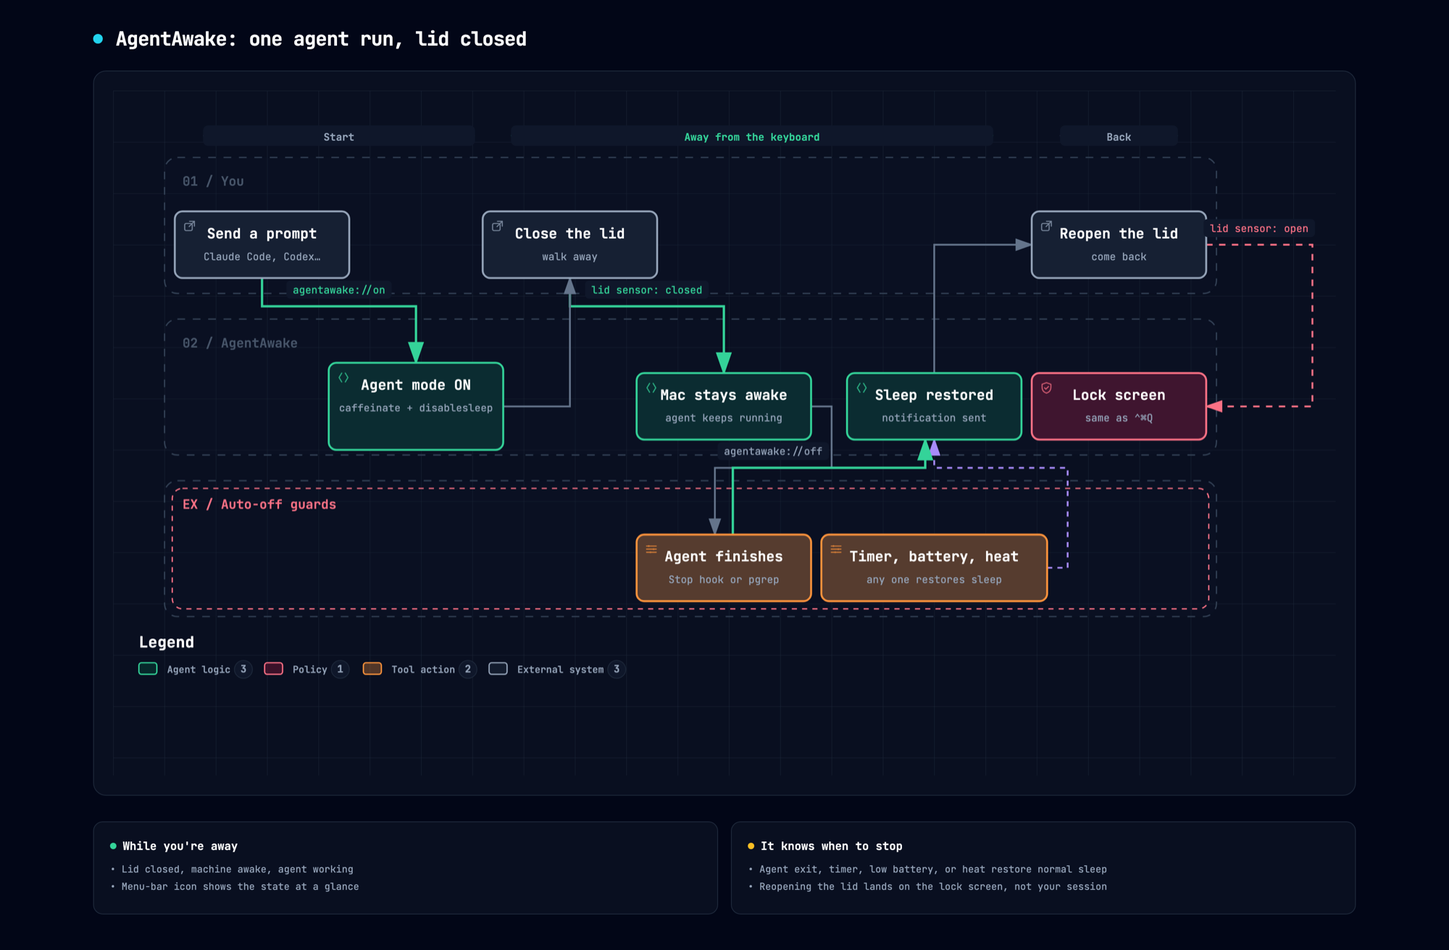
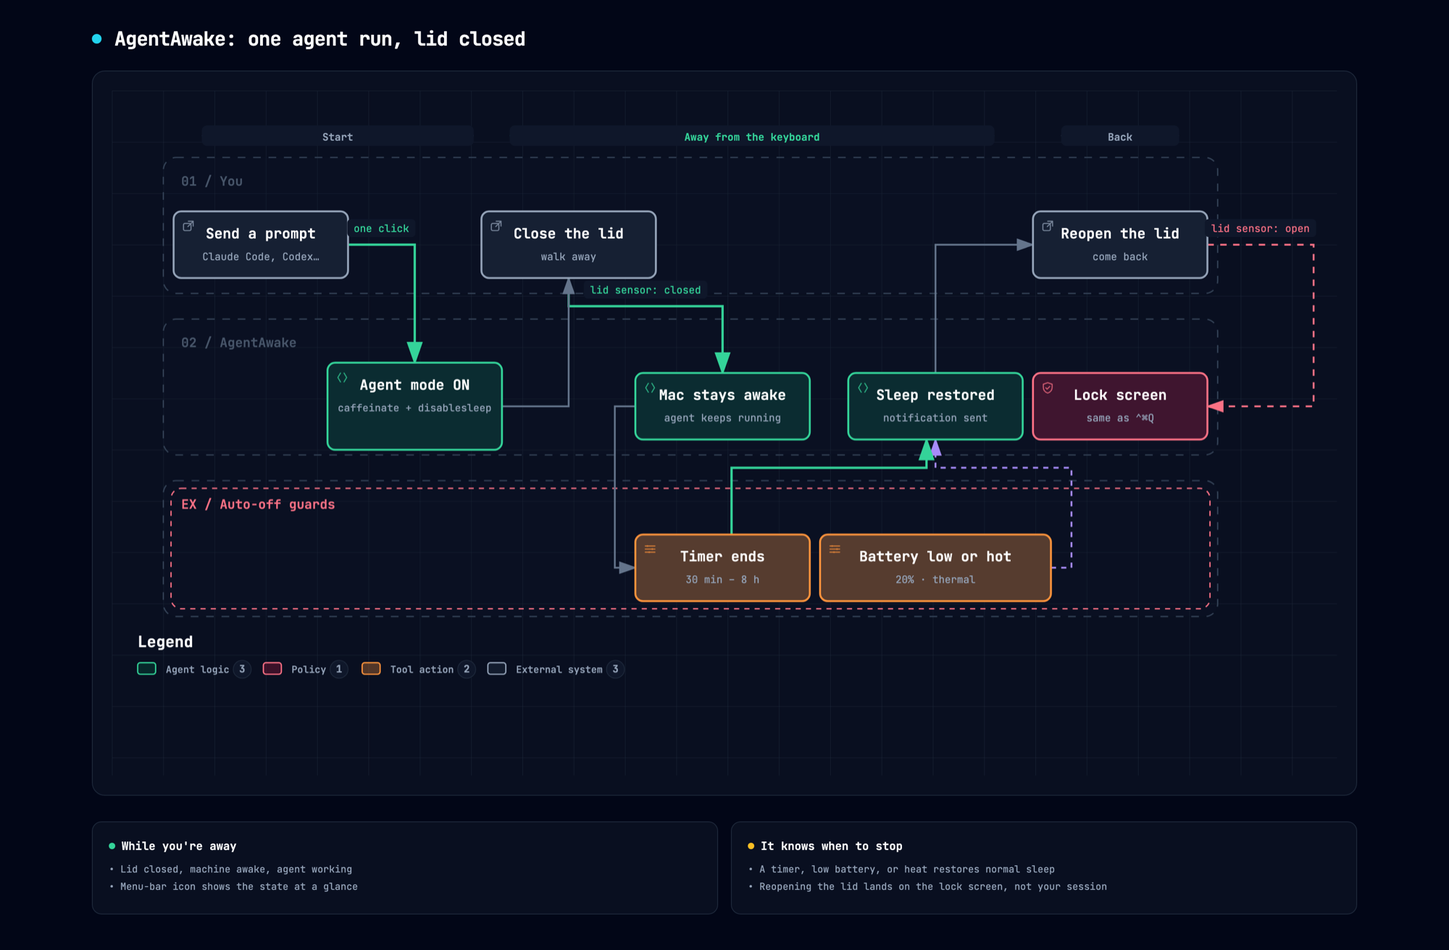
Diagram and README: timer, battery, and heat are the off switches; hooks optional

diff --git a/docs/agentawake.html b/docs/agentawake.html
@@ -5004,7 +5004,7 @@
     <!-- Main Diagram -->
     <div class="diagram-container" data-detail-level="read"
          data-preset-badge-editorial-plate="ARCHIFY / PLATE 04">
-      <svg viewBox="0 0 953 534" role="img" lang="en" aria-labelledby="archify-diagram-title archify-diagram-description" data-preset="classic" data-quality-profile="showcase">
+      <svg viewBox="0 0 955 534" role="img" lang="en" aria-labelledby="archify-diagram-title archify-diagram-description" data-preset="classic" data-quality-profile="showcase">
         <title id="archify-diagram-title">AgentAwake: one agent run, lid closed</title>
         <desc id="archify-diagram-description">A workflow diagram generated by Archify.</desc>
         <!-- Definitions -->
@@ -5030,39 +5030,39 @@
         <rect width="100%" height="100%" fill="url(#grid)" />
 
         <!-- Swimlanes -->
-        <rect data-graph-role="structural-frame" data-composition-frame-kind="lane" data-composition-frame-id="lane-0" x="40" y="52" width="820" height="106" rx="10" class="c-lane" stroke-width="1"/>
+        <rect data-graph-role="structural-frame" data-composition-frame-kind="lane" data-composition-frame-id="lane-0" x="40" y="52" width="822" height="106" rx="10" class="c-lane" stroke-width="1"/>
         <text x="54" y="74" class="t-dim" font-size="10" font-weight="600">01 / You</text>
 
-        <rect data-graph-role="structural-frame" data-composition-frame-kind="lane" data-composition-frame-id="lane-1" x="40" y="178" width="820" height="106" rx="10" class="c-lane" stroke-width="1"/>
+        <rect data-graph-role="structural-frame" data-composition-frame-kind="lane" data-composition-frame-id="lane-1" x="40" y="178" width="822" height="106" rx="10" class="c-lane" stroke-width="1"/>
         <text x="54" y="200" class="t-dim" font-size="10" font-weight="600">02 / AgentAwake</text>
 
-        <rect data-graph-role="structural-frame" data-composition-frame-kind="lane" data-composition-frame-id="lane-2" x="40" y="304" width="820" height="106" rx="10" class="c-lane" stroke-width="1"/>
-        <rect data-graph-role="structural-frame" data-composition-frame-kind="exception-lane" data-composition-frame-id="lane-2-exception" x="46" y="310" width="808" height="94" rx="8" class="c-security-group" stroke-width="1"/>
+        <rect data-graph-role="structural-frame" data-composition-frame-kind="lane" data-composition-frame-id="lane-2" x="40" y="304" width="822" height="106" rx="10" class="c-lane" stroke-width="1"/>
+        <rect data-graph-role="structural-frame" data-composition-frame-kind="exception-lane" data-composition-frame-id="lane-2-exception" x="46" y="310" width="810" height="94" rx="8" class="c-security-group" stroke-width="1"/>
         <text x="54" y="326" class="t-security" font-size="10" font-weight="600">EX / Auto-off guards</text>
 
         <!-- Phase headers -->
         <line x1="70" y1="35" x2="282" y2="35" class="a-default" stroke-width="1.1"/>
         <rect x="70" y="27" width="212" height="16" rx="4" class="c-mask"/>
         <text x="176" y="39" class="t-muted" font-size="8" font-weight="600" text-anchor="middle">Start</text>
-        <line x1="310" y1="35" x2="686" y2="35" class="a-emphasis" stroke-width="1.1"/>
-        <rect x="310" y="27" width="376" height="16" rx="4" class="c-mask"/>
-        <text x="498" y="39" class="t-backend" font-size="8" font-weight="600" text-anchor="middle">Away from the keyboard</text>
-        <line x1="738" y1="35" x2="830" y2="35" class="a-default" stroke-width="1.1"/>
-        <rect x="738" y="27" width="92" height="16" rx="4" class="c-mask"/>
-        <text x="784" y="39" class="t-muted" font-size="8" font-weight="600" text-anchor="middle">Back</text>
+        <line x1="310" y1="35" x2="688" y2="35" class="a-emphasis" stroke-width="1.1"/>
+        <rect x="310" y="27" width="378" height="16" rx="4" class="c-mask"/>
+        <text x="499" y="39" class="t-backend" font-size="8" font-weight="600" text-anchor="middle">Away from the keyboard</text>
+        <line x1="740" y1="35" x2="832" y2="35" class="a-default" stroke-width="1.1"/>
+        <rect x="740" y="27" width="92" height="16" rx="4" class="c-mask"/>
+        <text x="786" y="39" class="t-muted" font-size="8" font-weight="600" text-anchor="middle">Back</text>
 
         <!-- Workflow groups -->
 
 
         <!-- Edge paths -->
-        <path data-edge-from="awake" data-edge-to="finish" data-edge-label="agentawake://off" data-edge-key="0" data-edge-id="awake-finish" data-composition-points="544,246;560,246;560,294;469,294;469,346" d="M 544 246 L 560 246 L 560 294 L 469 294 L 469 346" class="a-default" stroke-width="1.4" marker-end="url(#arrowhead)"/>
-        <path data-edge-from="battery" data-edge-to="restore" data-edge-key="1" data-edge-id="battery-restore" data-composition-points="728,372;744,372;744,294;640,294;640,272" d="M 728 372 L 744 372 L 744 294 L 640 294 L 640 272" class="a-dashed" stroke-width="1.4" marker-end="url(#arrowhead-dashed)"/>
+        <path data-edge-from="awake" data-edge-to="timer" data-edge-key="0" data-edge-id="awake-timer" data-composition-points="408,246;392,246;392,372;408,372" d="M 408 246 L 392 246 L 392 372 L 408 372" class="a-default" stroke-width="1.4" marker-end="url(#arrowhead)"/>
+        <path data-edge-from="battery" data-edge-to="restore" data-edge-key="1" data-edge-id="battery-restore" data-composition-points="732,372;748,372;748,294;642,294;642,272" d="M 732 372 L 748 372 L 748 294 L 642 294 L 642 272" class="a-dashed" stroke-width="1.4" marker-end="url(#arrowhead-dashed)"/>
         <path data-edge-from="close" data-edge-to="awake" data-edge-label="lid sensor: closed" data-edge-key="2" data-edge-id="close-awake" data-composition-points="356,146;356,168;476,168;476,220" d="M 356 146 L 356 168 L 476 168 L 476 220" class="a-emphasis" stroke-width="1.8" marker-end="url(#arrowhead-emphasis)"/>
-        <path data-edge-from="finish" data-edge-to="restore" data-edge-key="3" data-edge-id="finish-restore" data-composition-points="483,346;483,294;633,294;633,272" d="M 483 346 L 483 294 L 633 294 L 633 272" class="a-emphasis" stroke-width="1.8" marker-end="url(#arrowhead-emphasis)"/>
-        <path data-edge-from="on" data-edge-to="close" data-edge-key="4" data-edge-id="on-close" data-composition-points="304,246;356,246;356,146" d="M 304 246 L 356 246 L 356 146" class="a-default" stroke-width="1.4" marker-end="url(#arrowhead)"/>
-        <path data-edge-from="prompt" data-edge-to="on" data-edge-label="agentawake://on" data-edge-key="5" data-edge-id="prompt-on" data-composition-points="116,146;116,168;236,168;236,212" d="M 116 146 L 116 168 L 236 168 L 236 212" class="a-emphasis" stroke-width="1.8" marker-end="url(#arrowhead-emphasis)"/>
-        <path data-edge-from="reopen" data-edge-to="lock" data-edge-label="lid sensor: open" data-edge-key="6" data-edge-id="reopen-lock" data-composition-points="852,120;934.8,120;934.8,246;852,246" d="M 852 120 L 934.8 120 L 934.8 246 L 852 246" class="a-security" stroke-width="1.4" marker-end="url(#arrowhead-security)"/>
-        <path data-edge-from="restore" data-edge-to="reopen" data-edge-key="7" data-edge-id="restore-reopen" data-composition-points="640,220;640,120;716,120" d="M 640 220 L 640 120 L 716 120" class="a-default" stroke-width="1.4" marker-end="url(#arrowhead)"/>
+        <path data-edge-from="on" data-edge-to="close" data-edge-key="3" data-edge-id="on-close" data-composition-points="304,246;356,246;356,146" d="M 304 246 L 356 246 L 356 146" class="a-default" stroke-width="1.4" marker-end="url(#arrowhead)"/>
+        <path data-edge-from="prompt" data-edge-to="on" data-edge-label="one click" data-edge-key="4" data-edge-id="prompt-on" data-composition-points="184,120;236,120;236,212" d="M 184 120 L 236 120 L 236 212" class="a-emphasis" stroke-width="1.8" marker-end="url(#arrowhead-emphasis)"/>
+        <path data-edge-from="reopen" data-edge-to="lock" data-edge-label="lid sensor: open" data-edge-key="5" data-edge-id="reopen-lock" data-composition-points="854,120;936.8,120;936.8,246;854,246" d="M 854 120 L 936.8 120 L 936.8 246 L 854 246" class="a-security" stroke-width="1.4" marker-end="url(#arrowhead-security)"/>
+        <path data-edge-from="restore" data-edge-to="reopen" data-edge-key="6" data-edge-id="restore-reopen" data-composition-points="642,220;642,120;718,120" d="M 642 220 L 642 120 L 718 120" class="a-default" stroke-width="1.4" marker-end="url(#arrowhead)"/>
+        <path data-edge-from="timer" data-edge-to="restore" data-edge-key="7" data-edge-id="timer-restore" data-composition-points="483,346;483,294;635,294;635,272" d="M 483 346 L 483 294 L 635 294 L 635 272" class="a-emphasis" stroke-width="1.8" marker-end="url(#arrowhead-emphasis)"/>
 
         <!-- Nodes -->
         <g id="node-prompt" data-node-id="prompt" data-node-label="Send a prompt" tabindex="0" role="button" aria-label="Focus Send a prompt, Claude Code, Codex…, You › Start" aria-pressed="false" data-node-kind="external" data-node-sublabel="Claude Code, Codex…" data-node-context="You › Start">
@@ -5091,14 +5091,14 @@
 
         <g id="node-reopen" data-node-id="reopen" data-node-label="Reopen the lid" tabindex="0" role="button" aria-label="Focus Reopen the lid, come back, You › Back" aria-pressed="false" data-node-kind="external" data-node-sublabel="come back" data-node-context="You › Back">
           <title>Reopen the lid · come back · You › Back</title>
-          <rect x="716" y="94" width="136" height="52" rx="6" class="c-mask"/>
-          <rect x="716" y="94" width="136" height="52" rx="6" class="c-external" stroke-width="1.5"/>
-          <g aria-hidden="true" data-semantic-sigil="external" class="semantic-sigil s-external" transform="translate(722 100) scale(0.6875)">
+          <rect x="718" y="94" width="136" height="52" rx="6" class="c-mask"/>
+          <rect x="718" y="94" width="136" height="52" rx="6" class="c-external" stroke-width="1.5"/>
+          <g aria-hidden="true" data-semantic-sigil="external" class="semantic-sigil s-external" transform="translate(724 100) scale(0.6875)">
             <rect x="2.5" y="5" width="8.5" height="8" rx="1.5"/>
             <path d="M8 2.5h5.5V8M13.5 2.5 7.5 8.5"/>
           </g>
-          <text data-node-label="" data-detail-anchor="" x="784" y="115" class="t-primary" font-size="11" font-weight="600" text-anchor="middle">Reopen the lid</text>
-          <text data-detail="context" x="784" y="132" class="t-muted" font-size="8" text-anchor="middle">come back</text>
+          <text data-node-label="" data-detail-anchor="" x="786" y="115" class="t-primary" font-size="11" font-weight="600" text-anchor="middle">Reopen the lid</text>
+          <text data-detail="context" x="786" y="132" class="t-muted" font-size="8" text-anchor="middle">come back</text>
         </g>
 
         <g id="node-on" data-node-id="on" data-node-label="Agent mode ON" tabindex="0" role="button" aria-label="Focus Agent mode ON, caffeinate + disablesleep, AgentAwake › Start" aria-pressed="false" data-node-kind="backend" data-node-sublabel="caffeinate + disablesleep" data-node-tag="hook or one click" data-node-context="AgentAwake › Start">
@@ -5126,29 +5126,29 @@
 
         <g id="node-restore" data-node-id="restore" data-node-label="Sleep restored" tabindex="0" role="button" aria-label="Focus Sleep restored, notification sent, AgentAwake › Away from the keyboard" aria-pressed="false" data-node-kind="backend" data-node-sublabel="notification sent" data-node-context="AgentAwake › Away from the keyboard">
           <title>Sleep restored · notification sent · AgentAwake › Away from the keyboard</title>
-          <rect x="572" y="220" width="136" height="52" rx="6" class="c-mask"/>
-          <rect x="572" y="220" width="136" height="52" rx="6" class="c-backend" stroke-width="1.5"/>
-          <g aria-hidden="true" data-semantic-sigil="backend" class="semantic-sigil s-backend" transform="translate(578 226) scale(0.6875)">
+          <rect x="574" y="220" width="136" height="52" rx="6" class="c-mask"/>
+          <rect x="574" y="220" width="136" height="52" rx="6" class="c-backend" stroke-width="1.5"/>
+          <g aria-hidden="true" data-semantic-sigil="backend" class="semantic-sigil s-backend" transform="translate(580 226) scale(0.6875)">
             <path d="M6 3 3 8l3 5M10 3l3 5-3 5"/>
           </g>
-          <text data-node-label="" data-detail-anchor="" x="640" y="241" class="t-primary" font-size="11" font-weight="600" text-anchor="middle">Sleep restored</text>
-          <text data-detail="context" x="640" y="258" class="t-muted" font-size="8" text-anchor="middle">notification sent</text>
+          <text data-node-label="" data-detail-anchor="" x="642" y="241" class="t-primary" font-size="11" font-weight="600" text-anchor="middle">Sleep restored</text>
+          <text data-detail="context" x="642" y="258" class="t-muted" font-size="8" text-anchor="middle">notification sent</text>
         </g>
 
         <g id="node-lock" data-node-id="lock" data-node-label="Lock screen" tabindex="0" role="button" aria-label="Focus Lock screen, same as ⌃⌘Q, AgentAwake › Back" aria-pressed="false" data-node-kind="security" data-node-sublabel="same as ⌃⌘Q" data-node-context="AgentAwake › Back">
           <title>Lock screen · same as ⌃⌘Q · AgentAwake › Back</title>
-          <rect x="716" y="220" width="136" height="52" rx="6" class="c-mask"/>
-          <rect x="716" y="220" width="136" height="52" rx="6" class="c-security" stroke-width="1.5"/>
-          <g aria-hidden="true" data-semantic-sigil="security" class="semantic-sigil s-security" transform="translate(722 226) scale(0.6875)">
+          <rect x="718" y="220" width="136" height="52" rx="6" class="c-mask"/>
+          <rect x="718" y="220" width="136" height="52" rx="6" class="c-security" stroke-width="1.5"/>
+          <g aria-hidden="true" data-semantic-sigil="security" class="semantic-sigil s-security" transform="translate(724 226) scale(0.6875)">
             <path d="M8 2.2 13 4v3.5c0 3.1-1.8 5.4-5 6.5-3.2-1.1-5-3.4-5-6.5V4Z"/>
             <path d="m5.8 8 1.5 1.5 3-3"/>
           </g>
-          <text data-node-label="" data-detail-anchor="" x="784" y="241" class="t-primary" font-size="11" font-weight="600" text-anchor="middle">Lock screen</text>
-          <text data-detail="context" x="784" y="258" class="t-muted" font-size="8" text-anchor="middle">same as ⌃⌘Q</text>
+          <text data-node-label="" data-detail-anchor="" x="786" y="241" class="t-primary" font-size="11" font-weight="600" text-anchor="middle">Lock screen</text>
+          <text data-detail="context" x="786" y="258" class="t-muted" font-size="8" text-anchor="middle">same as ⌃⌘Q</text>
         </g>
 
-        <g id="node-finish" data-node-id="finish" data-node-label="Agent finishes" tabindex="0" role="button" aria-label="Focus Agent finishes, Stop hook or pgrep, Auto-off guards › Away from the keyboard" aria-pressed="false" data-node-kind="messagebus" data-node-sublabel="Stop hook or pgrep" data-node-context="Auto-off guards › Away from the keyboard">
-          <title>Agent finishes · Stop hook or pgrep · Auto-off guards › Away from the keyboard</title>
+        <g id="node-timer" data-node-id="timer" data-node-label="Timer ends" tabindex="0" role="button" aria-label="Focus Timer ends, 30 min – 8 h, Auto-off guards › Away from the keyboard" aria-pressed="false" data-node-kind="messagebus" data-node-sublabel="30 min – 8 h" data-node-context="Auto-off guards › Away from the keyboard">
+          <title>Timer ends · 30 min – 8 h · Auto-off guards › Away from the keyboard</title>
           <rect x="408" y="346" width="136" height="52" rx="6" class="c-mask"/>
           <rect x="408" y="346" width="136" height="52" rx="6" class="c-messagebus" stroke-width="1.5"/>
           <g aria-hidden="true" data-semantic-sigil="messagebus" class="semantic-sigil s-messagebus" transform="translate(414 352) scale(0.6875)">
@@ -5157,44 +5157,41 @@
             <circle cx="10.5" cy="8" r="1" class="sigil-fill"/>
             <circle cx="7" cy="11.5" r="1" class="sigil-fill"/>
           </g>
-          <text data-node-label="" data-detail-anchor="" x="476" y="367" class="t-primary" font-size="11" font-weight="600" text-anchor="middle">Agent finishes</text>
-          <text data-detail="context" x="476" y="384" class="t-muted" font-size="8" text-anchor="middle">Stop hook or pgrep</text>
+          <text data-node-label="" data-detail-anchor="" x="476" y="367" class="t-primary" font-size="11" font-weight="600" text-anchor="middle">Timer ends</text>
+          <text data-detail="context" x="476" y="384" class="t-muted" font-size="8" text-anchor="middle">30 min – 8 h</text>
         </g>
 
-        <g id="node-battery" data-node-id="battery" data-node-label="Timer, battery, heat" tabindex="0" role="button" aria-label="Focus Timer, battery, heat, any one restores sleep, Auto-off guards › Away from the keyboard" aria-pressed="false" data-node-kind="messagebus" data-node-sublabel="any one restores sleep" data-node-context="Auto-off guards › Away from the keyboard">
-          <title>Timer, battery, heat · any one restores sleep · Auto-off guards › Away from the keyboard</title>
-          <rect x="552" y="346" width="176" height="52" rx="6" class="c-mask"/>
-          <rect x="552" y="346" width="176" height="52" rx="6" class="c-messagebus" stroke-width="1.5"/>
+        <g id="node-battery" data-node-id="battery" data-node-label="Battery low or hot" tabindex="0" role="button" aria-label="Focus Battery low or hot, 20% · thermal, Auto-off guards › Away from the keyboard" aria-pressed="false" data-node-kind="messagebus" data-node-sublabel="20% · thermal" data-node-context="Auto-off guards › Away from the keyboard">
+          <title>Battery low or hot · 20% · thermal · Auto-off guards › Away from the keyboard</title>
+          <rect x="552" y="346" width="180" height="52" rx="6" class="c-mask"/>
+          <rect x="552" y="346" width="180" height="52" rx="6" class="c-messagebus" stroke-width="1.5"/>
           <g aria-hidden="true" data-semantic-sigil="messagebus" class="semantic-sigil s-messagebus" transform="translate(558 352) scale(0.6875)">
             <path d="M2.5 4.5h11M2.5 8h11M2.5 11.5h11"/>
             <circle cx="5" cy="4.5" r="1" class="sigil-fill"/>
             <circle cx="10.5" cy="8" r="1" class="sigil-fill"/>
             <circle cx="7" cy="11.5" r="1" class="sigil-fill"/>
           </g>
-          <text data-node-label="" data-detail-anchor="" x="640" y="367" class="t-primary" font-size="11" font-weight="600" text-anchor="middle">Timer, battery, heat</text>
-          <text data-detail="context" x="640" y="384" class="t-muted" font-size="8" text-anchor="middle">any one restores sleep</text>
+          <text data-node-label="" data-detail-anchor="" x="642" y="367" class="t-primary" font-size="11" font-weight="600" text-anchor="middle">Battery low or hot</text>
+          <text data-detail="context" x="642" y="384" class="t-muted" font-size="8" text-anchor="middle">20% · thermal</text>
         </g>
 
         <!-- Edge labels -->
-        <g data-detail="context" data-edge-from="awake" data-edge-to="finish" data-edge-label="agentawake://off" data-edge-key="0" data-edge-id="awake-finish">
-          <rect x="471.1" y="274" width="86.8" height="14" rx="3" class="c-mask"/>
-          <text x="514.5" y="284" class="t-muted" font-size="8" text-anchor="middle">agentawake://off</text>
-        </g>
+
 
         <g data-detail="context" data-edge-from="close" data-edge-to="awake" data-edge-label="lid sensor: closed" data-edge-key="2" data-edge-id="close-awake">
           <rect x="367.8" y="148" width="96.39999999999999" height="14" rx="3" class="c-mask"/>
           <text x="416" y="158" class="t-backend" font-size="8" text-anchor="middle">lid sensor: closed</text>
         </g>
 
+        <g data-detail="context" data-edge-from="prompt" data-edge-to="on" data-edge-label="one click" data-edge-key="4" data-edge-id="prompt-on">
+          <rect x="183.4" y="100" width="53.199999999999996" height="14" rx="3" class="c-mask"/>
+          <text x="210" y="110" class="t-backend" font-size="8" text-anchor="middle">one click</text>
+        </g>
+        <g data-detail="context" data-edge-from="reopen" data-edge-to="lock" data-edge-label="lid sensor: open" data-edge-key="5" data-edge-id="reopen-lock">
+          <rect x="852" y="100" width="86.8" height="14" rx="3" class="c-mask"/>
+          <text x="895.4" y="110" class="t-security" font-size="8" text-anchor="middle">lid sensor: open</text>
+        </g>
 
-        <g data-detail="context" data-edge-from="prompt" data-edge-to="on" data-edge-label="agentawake://on" data-edge-key="5" data-edge-id="prompt-on">
-          <rect x="135" y="148" width="82" height="14" rx="3" class="c-mask"/>
-          <text x="176" y="158" class="t-backend" font-size="8" text-anchor="middle">agentawake://on</text>
-        </g>
-        <g data-detail="context" data-edge-from="reopen" data-edge-to="lock" data-edge-label="lid sensor: open" data-edge-key="6" data-edge-id="reopen-lock">
-          <rect x="850" y="100" width="86.8" height="14" rx="3" class="c-mask"/>
-          <text x="893.4" y="110" class="t-security" font-size="8" text-anchor="middle">lid sensor: open</text>
-        </g>
 
 
         <!-- Legend -->
@@ -5420,7 +5417,7 @@
           <h3>It knows when to stop</h3>
         </div>
         <ul>
-          <li>&bull; Agent exit, timer, low battery, or heat restore normal sleep</li>
+          <li>&bull; A timer, low battery, or heat restores normal sleep</li>
           <li>&bull; Reopening the lid lands on the lock screen, not your session</li>
         </ul>
       </div>

diff --git a/README.md b/README.md
@@ -20,12 +20,11 @@ Claude Code, Codex, and friends run for twenty minutes at a time now. A MacBook 
 - **Agent mode** — turns all of the above on in one click. **Everything OFF** restores normal sleep.
 - **Timer** — awake for 30 minutes to 8 hours, then everything off.
 - **Auto-off guards** — restore normal sleep and send a notification when:
-  - the power cable is unplugged (off by default)
   - the battery drops below 20%
   - the machine hits serious thermal pressure with the lid closed
-  - the last watched agent process exits (`claude`, `codex`, `cursor-agent`, `gemini`, `aider` by default, editable)
-- **Agent hooks** — `agentawake://on`, `agentawake://off`, and `agentawake://lock` URLs, so your agent's own lifecycle hooks can keep the machine awake exactly as long as it's working.
+  - the power cable is unplugged (off by default)
 - **Launch at login**, **Check for updates**, optional **Restore sleep on quit**.
+- **Optional, off by default:** stop when a watched agent process exits, and `agentawake://on|off|lock` URLs for harnesses that have lifecycle hooks. Neither is needed for normal use.
 - Menu-bar icon shows state at a glance: ☕ caffeinated, 🔒 lid-closed awake, 😴 normal.
 
 ## Install
@@ -39,9 +38,9 @@ git clone https://github.com/s04/agent-awake && cd agent-awake
 bash build.sh        # builds, ad-hoc signs, installs to ~/Applications, and launches
 ```
 
-## Hook it to your agent
+## Optional: hook it to your agent
 
-Claude Code example, in `~/.claude/settings.json`. Awake while it works, normal sleep the moment it stops and waits for you:
+You don't need this. Agent mode plus a timer or the battery and heat guards covers the normal case, and every harness has different hooks. If yours has them, the URL scheme is there. Claude Code example, in `~/.claude/settings.json`:
 
 ```json
 {
@@ -52,7 +51,7 @@ Claude Code example, in `~/.claude/settings.json`. Awake while it works, normal 
 }
 ```
 
-Enable the passwordless toggle first (next section), or `on` will prompt for your password every time. The `-g` keeps the app from stealing focus. Any tool that can run a shell command on start and finish can do the same.
+Enable the passwordless toggle first (next section), or `on` will prompt for your password every time. The `-g` keeps the app from stealing focus. **Auto-off ▸ When agent exits** does the same thing without hooks by watching for named processes such as `claude` or `codex`, also off by default.
 
 ## Passwordless sleep toggle
 
@@ -65,7 +64,7 @@ Changing the lid-closed setting needs admin rights. By default AgentAwake asks f
 Read these before trusting the app with a closed laptop.
 
 - **The lid-closed setting is system-wide and outlives the app.** If you quit without turning it off, the machine still won't sleep. Turn on **Restore sleep on quit**, or run `sudo pmset -a disablesleep 0` to fix it by hand.
-- **Heat.** A lid-closed laptop with sleep disabled runs at full power. The thermal guard reacts to the OS thermal state, which is a late signal. Don't rely on it as your only protection; use the timer or the process watch as well.
+- **Heat.** A lid-closed laptop with sleep disabled runs at full power. The thermal guard reacts to the OS thermal state, which is a late signal. Don't rely on it as your only protection; set a timer as well.
 - **The sudoers rule** lets any process running as your user flip the sleep setting without a password. It cannot run anything else. Remove it if that bothers you.
 - **The URL scheme** can be triggered by any app or web page. Browsers ask before opening a custom scheme, but a local script could toggle sleep or lock your screen. Neither action is destructive.
 - **Lock-on-reopen** uses the same private system call as ⌃⌘Q. If a future macOS removes it, the app falls back to display sleep, which locks if "Require password after display is turned off" is set in Lock Screen settings.
